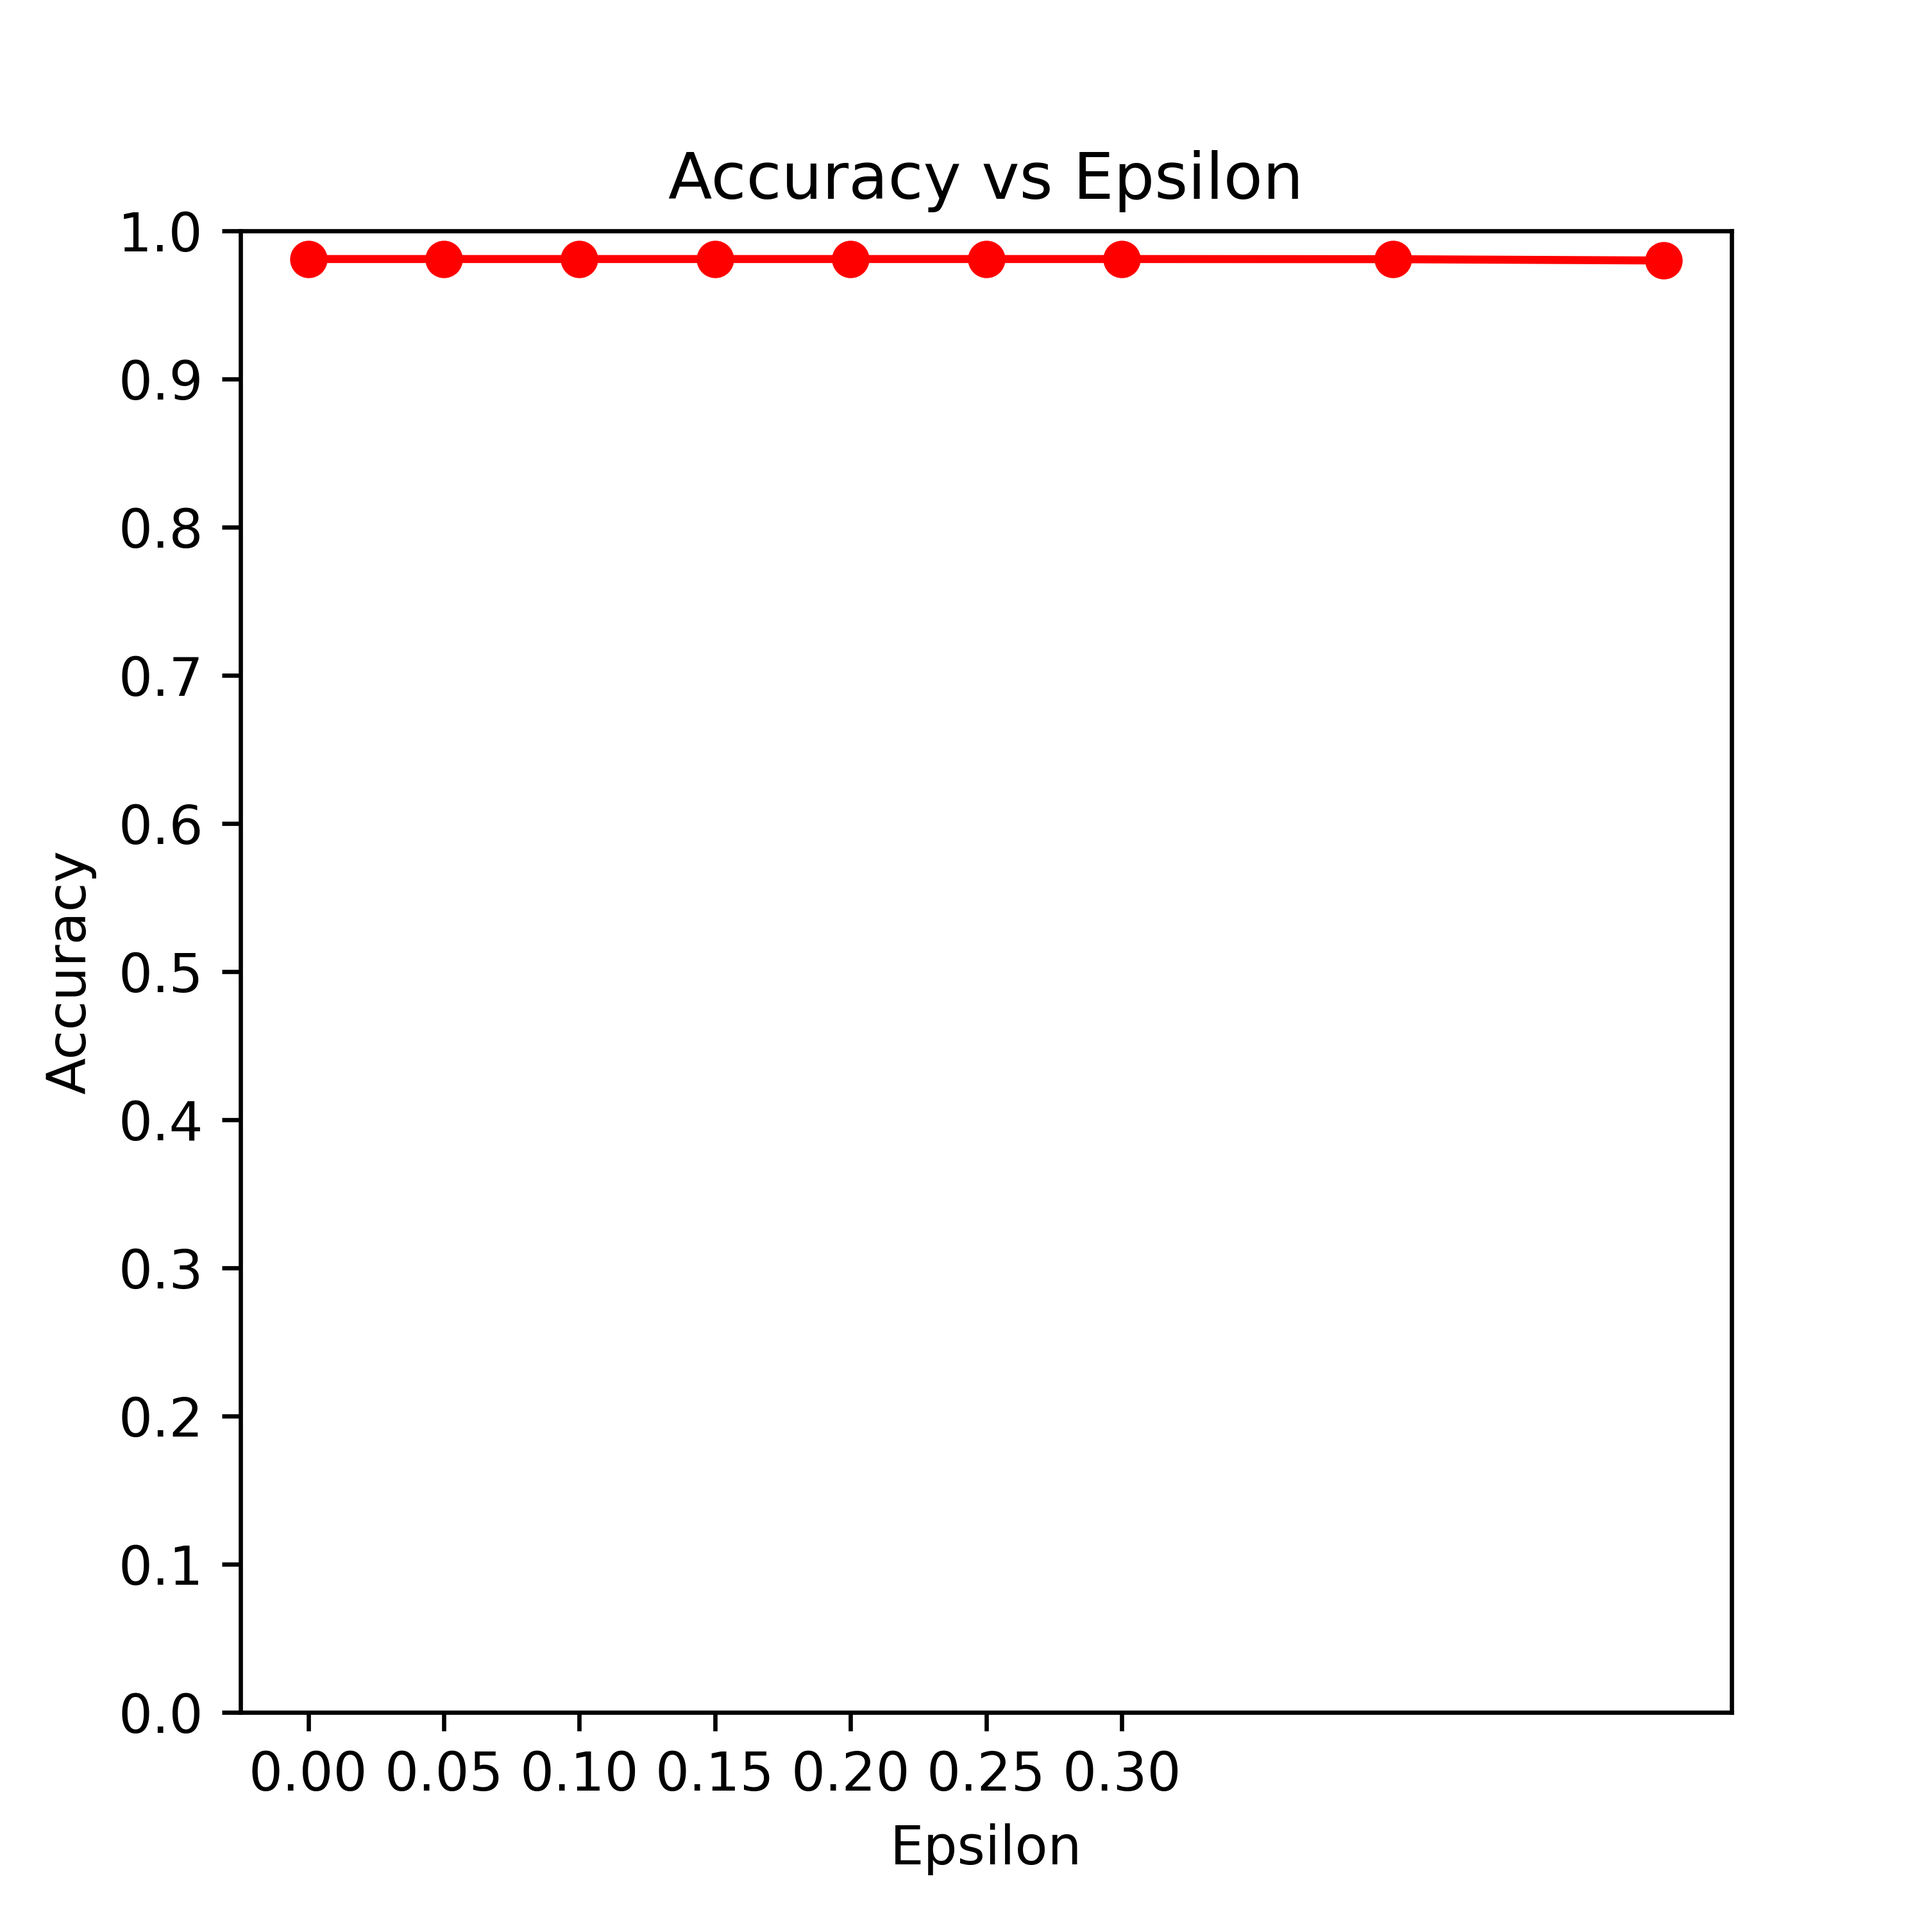
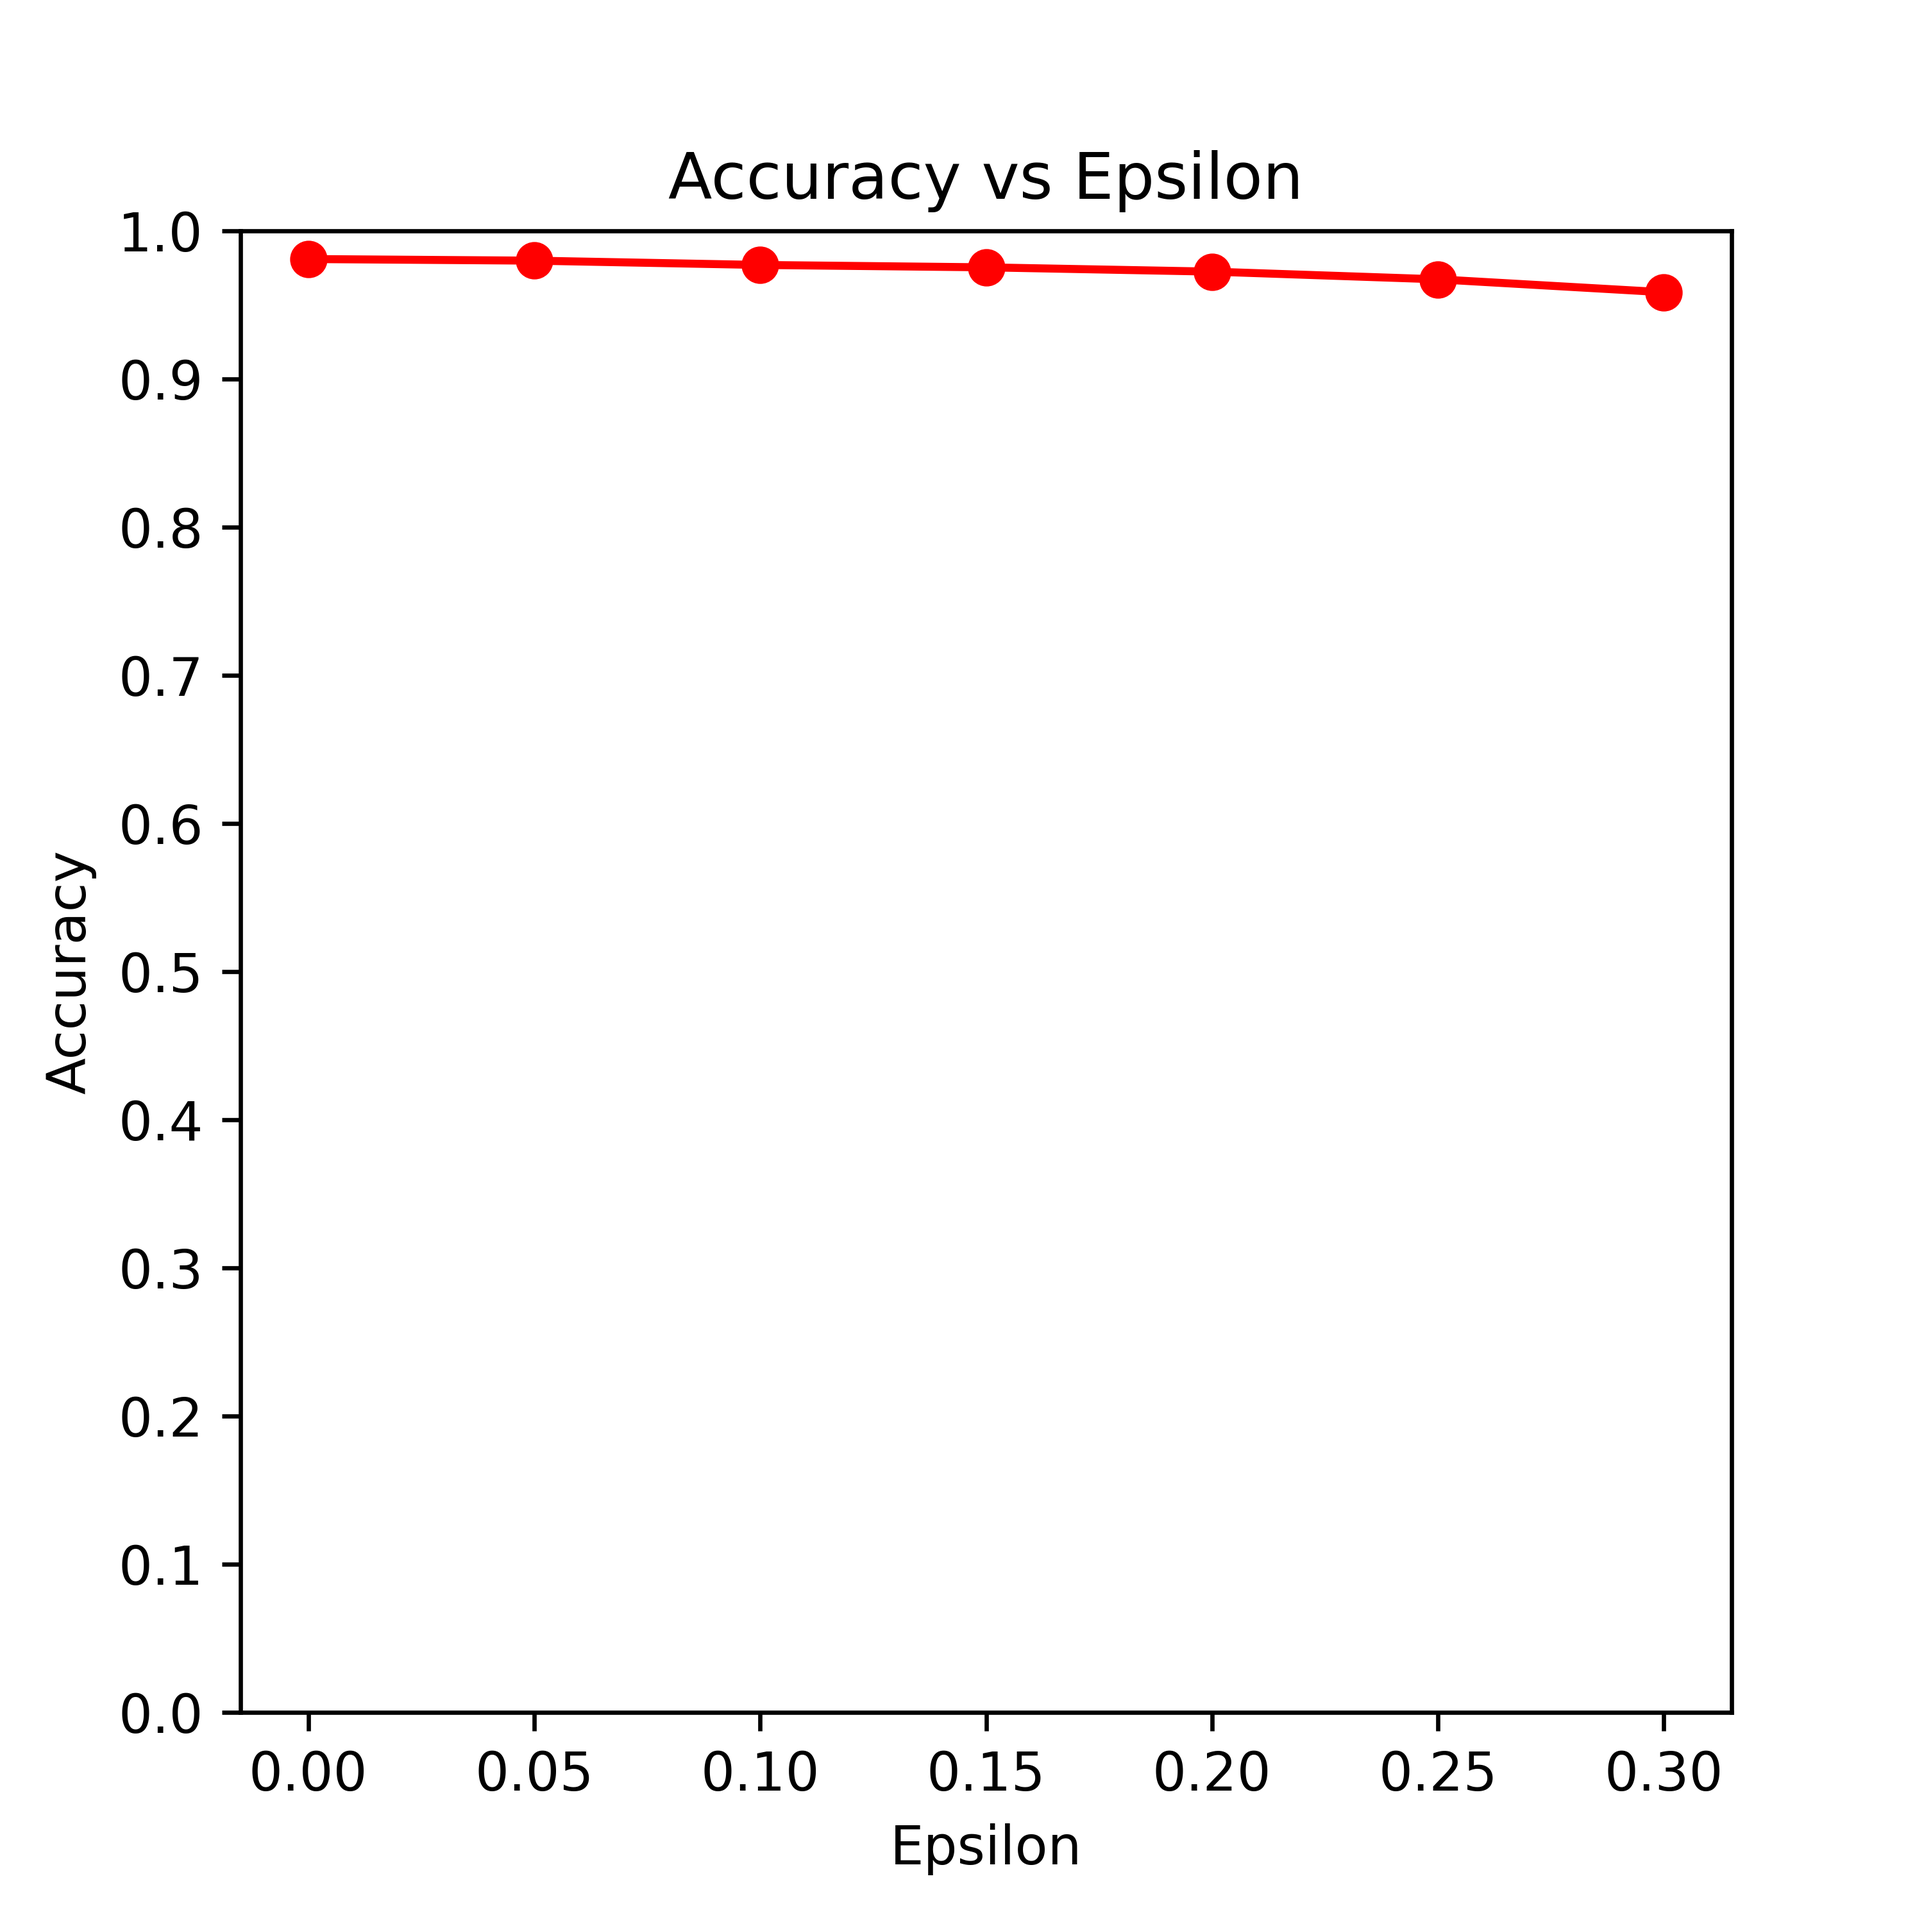
Updated for random perturbations:

diff --git a/myfile.py b/myfile.py
@@ -9,18 +9,26 @@ import matplotlib.pyplot as plt
 from DeepFool import *
 
 
-epsilons = [0, .05, .1, .15, .2, .25, .3,.4,.5]
+epsilons = [0, .05, .1, .15, .2, .25, .3]
 pretrained_model = "saved_model/lenet_mnist_model.pth"
 use_cuda=True
 
 def fgsm_attack(image, epsilon, data_grad):
     # Collect the element-wise sign of the data gradient
+
     sign_data_grad = data_grad.sign()
     # Create the perturbed image by adjusting each pixel of the input image
     perturbed_image = image - epsilon*sign_data_grad
     # Adding clipping to maintain [0,1] range
     perturbed_image = torch.clamp(perturbed_image, 0, 1)
     # Return the perturbed image
+    return perturbed_image
+
+def fgsm_rand_attack(image,epsilon,data_grad):
+    sign_data_grad=torch.randint(2,data_grad.shape)
+    sign_data_grad[sign_data_grad==0]=-1
+    perturbed_image = image - epsilon*sign_data_grad
+    perturbed_image = torch.clamp(perturbed_image, 0, 1)
     return perturbed_image
 
 
@@ -59,7 +67,7 @@ def test( model, device, test_loader, epsilon ):
         data_grad = data.grad.data
 
         # Call FGSM Attack
-        perturbed_data = fgsm_attack(data, epsilon, data_grad)
+        perturbed_data = fgsm_rand_attack(data, epsilon, data_grad)
 
         # Re-classify the perturbed image
         output = model(perturbed_data)
